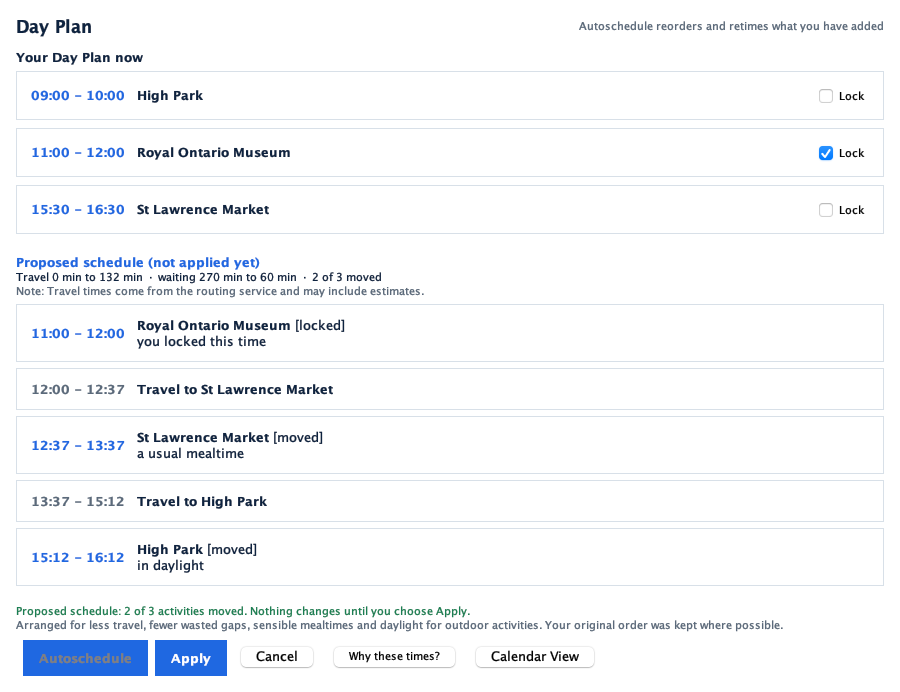
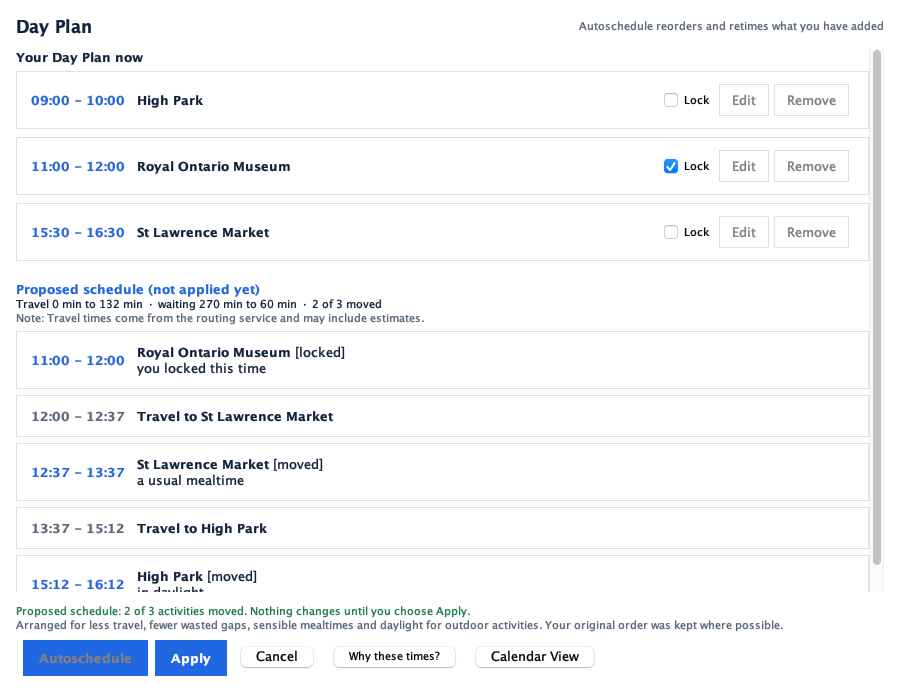
docs(autoschedule): record hourly weather activating the preference
The documentation had been hedging for four batches that weather would work
"once an hourly forecast exists". It exists, so the hedging is removed and
replaced with what is now true and verified: the preference is enabled and
ticked by default in production.

Screenshots re-captured against the real production capability rather than a
forced state. What was 02-settings-weather-withheld is now
02-settings-weather-available and shows both boxes ticked; the withheld state
moves to 02b as the fallback it now is. The Day Plan shots also pick up Alex's
Edit and Remove buttons beside the Lock checkbox.

One number worth flagging rather than burying: repository line coverage fell
from 79.7% to 71.1% because the merged Supabase auth and persistence code
arrives with little coverage of its own. The Autoschedule slice is unchanged at
90.5% and the Interactor at 92.3%, but the group's 70% threshold is now met by
1.1 points instead of 9.7. That is a team problem and the evidence document
says so.

diff --git a/docs/autoschedule/verification-evidence.md b/docs/autoschedule/verification-evidence.md
@@ -9,8 +9,8 @@ Environment: Java 24.0.2 (Temurin), macOS, aarch64. Maven via `./mvnw`.
 ./mvnw clean test
 ```
 
-**314 tests, 0 failures, 0 errors, 9 skipped** (re-run 2026-08-06 after integrating
-`origin/main` and Alex's branches; previous figures were 270, 297, then 300). The six skips are all opt-in live tests that require
+**319 tests, 0 failures, 0 errors, 9 skipped** (re-run 2026-08-06 after integrating
+`origin/main` including Shiyuan's hourly weather; previous figures were 270, 297, 300, 314). The six skips are all opt-in live tests that require
 network access and an explicit environment variable: the pre-existing
 `OpenMeteoWeatherServiceLiveTest` (1, needs `RUN_LIVE_OPEN_METEO_TEST=true`) and
 `AutoScheduleLiveVerificationTest` (5, needs `RUN_LIVE_AUTOSCHEDULE_TEST=true`) and
@@ -38,16 +38,24 @@ below were therefore never wrong — the noise was.
 
 | Scope | Line | Branch |
 |---|---|---|
-| Repository-wide (after exclusions) | **79.7%** | 60.5% |
-| Autoschedule slice (`application.autoschedule*` + gateways) | **90.4%** | 73.6% |
+| Repository-wide (after exclusions) | **71.1%** | 52.4% |
+| Autoschedule slice (`application.autoschedule*` + gateways) | **90.5%** | 73.7% |
 | `AutoScheduleInteractor` (the use-case interactor) | **92.3%** | 80.8% |
 
 New in this batch: `WeatherOption` 100% line, `WeatherContextGateway` 100% line,
 `SchedulingPreferences` 100% line, `AutoScheduleController` 94.6% line.
 
+> **Repository coverage fell from 79.7% to 71.1% in this integration**, and the cause is
+> merged teammate code arriving with little of its own test coverage — chiefly the new
+> Supabase auth and persistence classes. Nothing in the Autoschedule slice regressed: it is
+> 90.5% and the Interactor 92.3%, both essentially unchanged. **The 70% rubric threshold is
+> now met by 1.1 points rather than 9.7**, so any further untested code from any member
+> could put the group below it. Worth raising with the team rather than discovering at
+> submission.
+
 Against the group rubric's testing descriptors — 5/5 wants more than 90% interactor
 coverage and more than 70% overall — the interactor is at 92.3% and the repository is at
-79.7%. Both thresholds are met on line coverage, which Piazza @339 confirms is an
+71.1%. Both thresholds are met on line coverage, which Piazza @339 confirms is an
 acceptable metric. The Autoschedule slice as a whole also reaches 90.4%.
 
 **Exclusions, and why each is justified:**
@@ -193,16 +201,16 @@ reaches the live service and that only a valid credential is missing.
 | A traffic-time difference between two departures | **Not observed.** |
 | Which provider answered the shared `DistanceService` call | **Unprovable through that return type** — it is a bare `int`. The new test bypasses it rather than trying to infer provenance from it. |
 
-**Weather — verified, and it is what the new preference gate is built on.** The live gateway
-returns a forecast, but `canDistinguishTimes()` is false: one severity covers the whole
-trip, so every candidate time scores identically. Since Batch 5 that is not merely a caveat
-but the mechanism — the "Consider weather" checkbox is disabled and unticked, and the dialog
-shows "Hourly weather is not available for this trip date." If the traveller somehow asks
-for weather anyway, the Interactor still finds the forecast coarse, contributes zero, warns
-that "the forecast covers the whole day rather than each hour", and omits weather from the
-applied-objectives list. Asserted through the production wiring by
-`AutoScheduleWalkthroughTest`, and the enabled path by
-`anHourlyGatewayWouldOfferThePreferenceWithNoOtherChange`.
+**Weather — now hourly, and the preference is live.** Shiyuan's `getHourlyWarnings` supplies
+a severity per hour and `WeatherServiceContextGateway` turns it into an hourly
+`WeatherContext`, so `canDistinguishTimes()` is true. Verified directly against the
+production wiring: `available=true canDistinguishTimes=true`, with distinct severities
+readable at 10:00 and 15:00. "Consider weather" is therefore **enabled and ticked by default**
+in the shipped dialog — captured in `screenshots/02-settings-weather-available.png`.
+
+The degraded paths are still covered and still honest: a single known hour is reported as
+trip-level so it cannot pretend to inform timing, and an empty, severity-less or throwing
+provider becomes unavailable, contributes zero, and withholds the checkbox with a reason.
 
 ## 5. Manual functional, EDT and accessibility checks
 

diff --git a/docs/autoschedule/screenshot-checklist.md b/docs/autoschedule/screenshot-checklist.md
@@ -89,29 +89,29 @@ Filenames below are the ones committed.
 | **Must appear in the crop** | All three time ranges and names; the Lock checkbox on every row; the Autoschedule button. |
 | **Must not appear** | Any proposed schedule; Apply or Cancel (both hidden outside a preview); any terminal window, environment variable, URL or personal information. |
 
-### 2. Settings — weather withheld (the state that occurs today)
+### 2. Settings — weather offered (the state that occurs today)
 
 | | |
 |---|---|
-| **File** | `screenshots/02-settings-weather-withheld.png` |
+| **File** | `screenshots/02-settings-weather-available.png` |
 | **Purpose** | Shows both user preferences and the capability gate. Supports Use-case Explanation and the accessibility descriptor. *(engineering judgment, not individually rubric-named)* |
 | **Starting state** | From state 1, choose **Autoschedule**. |
 | **Actions and settings** | Let the weather capability lookup finish (it is immediate offline). Optionally add one unavailable period. |
-| **Expected visible result** | Available from 09:00, until 21:00, mode WALKING. **"Keep my current order where possible" ticked.** **"Consider weather" unticked and greyed**, with the sentence *"Hourly weather is not available for this trip date."* beneath it. |
-| **Must appear in the crop** | Both checkboxes, the weather explanation sentence, and the Generate Preview button. |
+| **Expected visible result** | Available from 09:00, until 21:00, mode WALKING. **Both checkboxes ticked and enabled** — "Keep my current order where possible" and "Consider weather". Since Shiyuan's hourly forecast landed, this is the production state. |
+| **Must appear in the crop** | Both ticked checkboxes and the Generate Preview button. |
 | **Must not appear** | Any API key, authenticated URL, or the "Checking hourly weather…" transitional text. |
 
-### 2b. Settings — weather available
+### 2b. Settings — weather withheld (the degraded path)
 
 | | |
 |---|---|
-| **File** | `screenshots/02b-settings-weather-available.png` |
-| **Purpose** | Shows the other half of the gate: when a forecast can distinguish hours, the box is enabled and **on by default**. Needed because the shipped adapters cannot produce this state, so without it the design looks like a permanently dead control. |
-| **Starting state** | Requires a gateway returning an hourly `WeatherContext`. Not reachable through the shipped weather adapters today. |
+| **File** | `screenshots/02b-settings-weather-withheld.png` |
+| **Purpose** | Shows the other half of the gate: when no usable forecast exists the box is disabled, unticked and explained. Worth keeping because a provider can always fail, and it is the behaviour that makes the preference honest. |
+| **Starting state** | Requires a gateway returning no usable forecast. Not the normal production state since the hourly adapter landed. |
 | **Actions and settings** | Captured through the same dialog with an hourly forecast supplied. |
-| **Expected visible result** | "Consider weather" **enabled and ticked**, no explanation sentence. |
-| **Must appear in the crop** | The enabled, ticked checkbox and the absence of the withheld-reason line. |
-| **Must not appear** | Anything implying this is the current production behaviour — say plainly that it is the state an hourly gateway would produce. |
+| **Expected visible result** | "Consider weather" **disabled and unticked**, with *"Hourly weather is not available for this trip date."* beneath it. |
+| **Must appear in the crop** | The disabled checkbox and the explanation sentence. |
+| **Must not appear** | Anything implying this is the current production behaviour — it is the fallback. |
 
 ### 3. Preview — the proposal, with the plan still untouched
 

diff --git a/README.md b/README.md
@@ -175,8 +175,8 @@ what cannot be worked out automatically:
   travel*: the traveller waits until the period ends before setting out.
 - **Keep my current order where possible** - on by default.
 - **Consider weather** - offered only when the forecast can tell one time of day from
-  another. When it can, the box is enabled and ticked by default and may be unticked. When
-  the forecast covers the whole day, is beyond the provider's hourly range, or cannot be
+  another. Since the hourly forecast landed this is the normal case: the box is **enabled and
+  ticked by default** and may be unticked. When only one hour is known, or no forecast can be
   obtained, the box is disabled and unticked and the reason is shown in words beneath it
   ("Hourly weather is not available for this trip date."). The state is never signalled by
   colour alone, and the checkbox stays keyboard-reachable.
@@ -236,12 +236,12 @@ output.
 
 ### Current limitations
 
-- **The weather preference cannot be offered yet.** Both shipped forecast adapters report
-  one severity for the whole trip, so `canDistinguishTimes()` is false and the "Consider
-  weather" checkbox is disabled with the reason shown. This is the designed behaviour
-  rather than a defect, but it does mean the enabled state is not reachable in production
-  today. An hourly forecast would activate it with no change to the engine, the Interactor
-  or the UI — verified by test, not assumed.
+- ~~The weather preference cannot be offered yet.~~ **Resolved.** Shiyuan's hourly forecast
+  landed, so `WeatherService.getHourlyWarnings` supplies a severity per hour,
+  `canDistinguishTimes()` is true, and "Consider weather" is **enabled and ticked by default**
+  in production. Activating it took one adapter change and nothing else — no engine, Interactor,
+  Controller or dialog edit — which is what the inward-facing contract was for. The disabled
+  path is still exercised, because a provider can always fail.
 - **Travel confidence is reported as unknown.** The shared `DistanceService` returns a plain
   number and cannot distinguish a real route from its own distance-based fallback, so the
   preview says travel times may include estimates instead of claiming more.

diff --git a/docs/autoschedule/architecture.md b/docs/autoschedule/architecture.md
@@ -148,11 +148,14 @@ The explanation is a visible label, not colour or absence, and it is repeated on
 checkbox's accessible description because a disabled control can be skipped in focus
 traversal.
 
-**Today, only the disabled row is reachable in production:** both shipped adapters report
-one severity per trip. That is verified rather than assumed — the live run records
-`available=true canDistinguishTimes=false`, and `AutoScheduleWalkthroughTest` asserts both
-the withheld state through the real wiring and that an hourly gateway would offer the
-preference with no other change.
+**The enabled row is now the production state.** Shiyuan's `getHourlyWarnings` supplies a
+severity per hour, `WeatherServiceContextGateway` turns it into an hourly `WeatherContext`,
+and `canDistinguishTimes()` is true. Activating it required **one adapter change and nothing
+else** — the engine, Interactor, Controller and dialog were untouched, because
+`WeatherContext` accepted an hourly shape from the start and the gate always asked the
+capability rather than a date. `AutoScheduleWalkthroughTest` asserts the preference is
+offered through the real wiring, that no stale caveat appears, and that a gateway with no
+usable forecast still withholds it with a reason.
 
 ## Integration seam with add-to-plan
 
